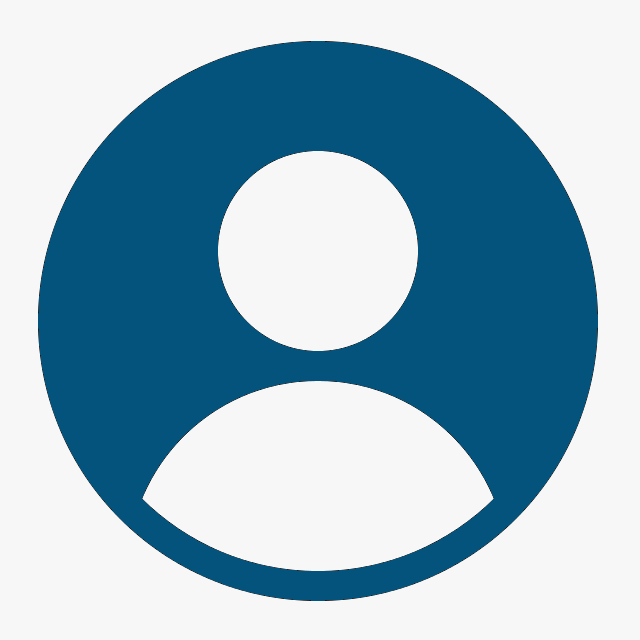
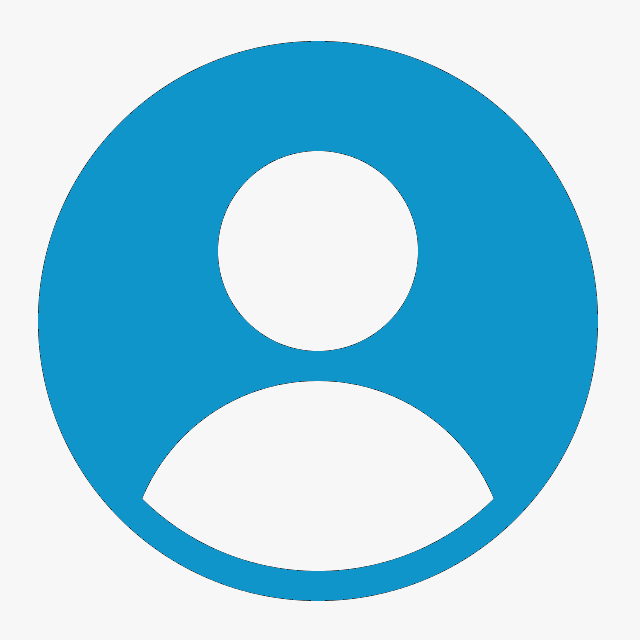
update styles

diff --git a/src/components/Contact/index.js b/src/components/Contact/index.js
@@ -121,9 +121,9 @@ export default function Contact({ contact }) {
                         </>
                         :
                         <ExpandMore
-                        fontSize={'small'}
-                        style={{ color: '#333' }}
-                        onClick={() => { setVisibleInfo(!visibleInfo) }}
+                            fontSize={'small'}
+                            style={{ color: '#333' }}
+                            onClick={() => { setVisibleInfo(!visibleInfo) }}
                         />
                     }
                 </div>

diff --git a/src/App.css b/src/App.css
@@ -38,7 +38,7 @@
   font-size: 20px;
   border-top-left-radius: 4px;
   border-top-right-radius: 4px;
-  border-bottom: 2px solid rgb(0, 119, 255);
+  border-bottom: 2px solid rgb(15, 149, 202);
 }
 
 .app .header strong {
